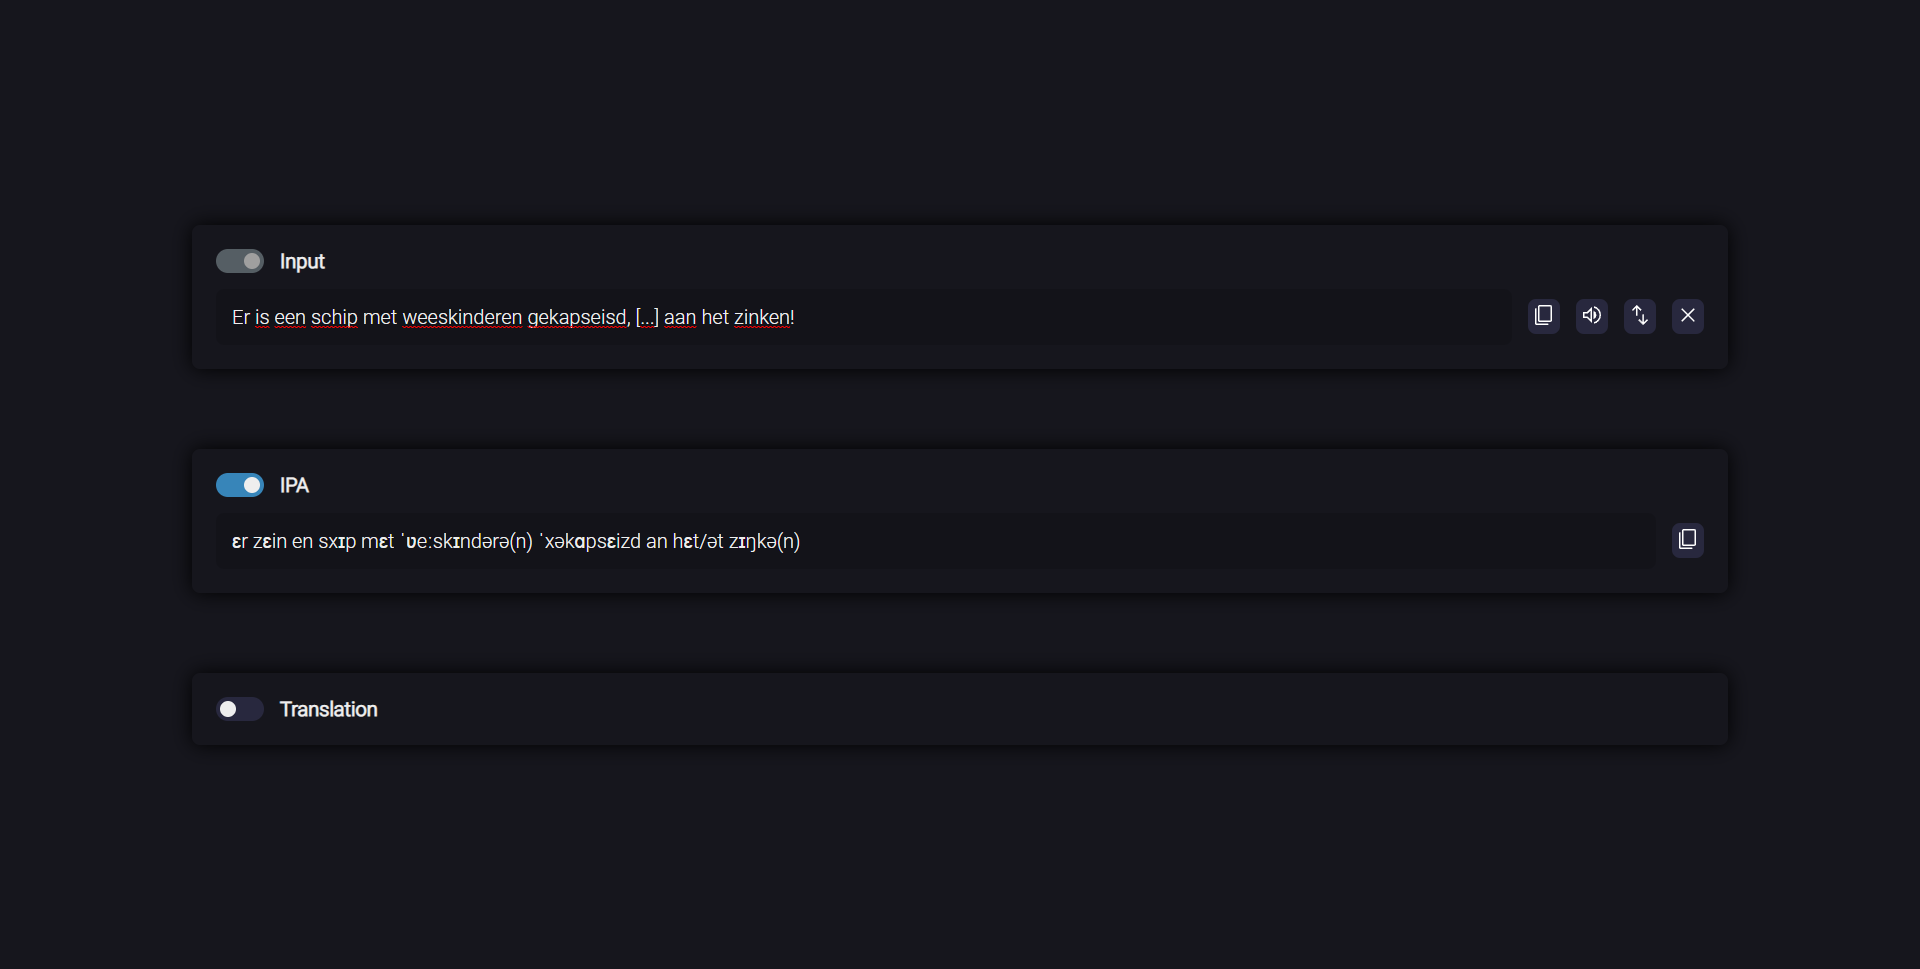
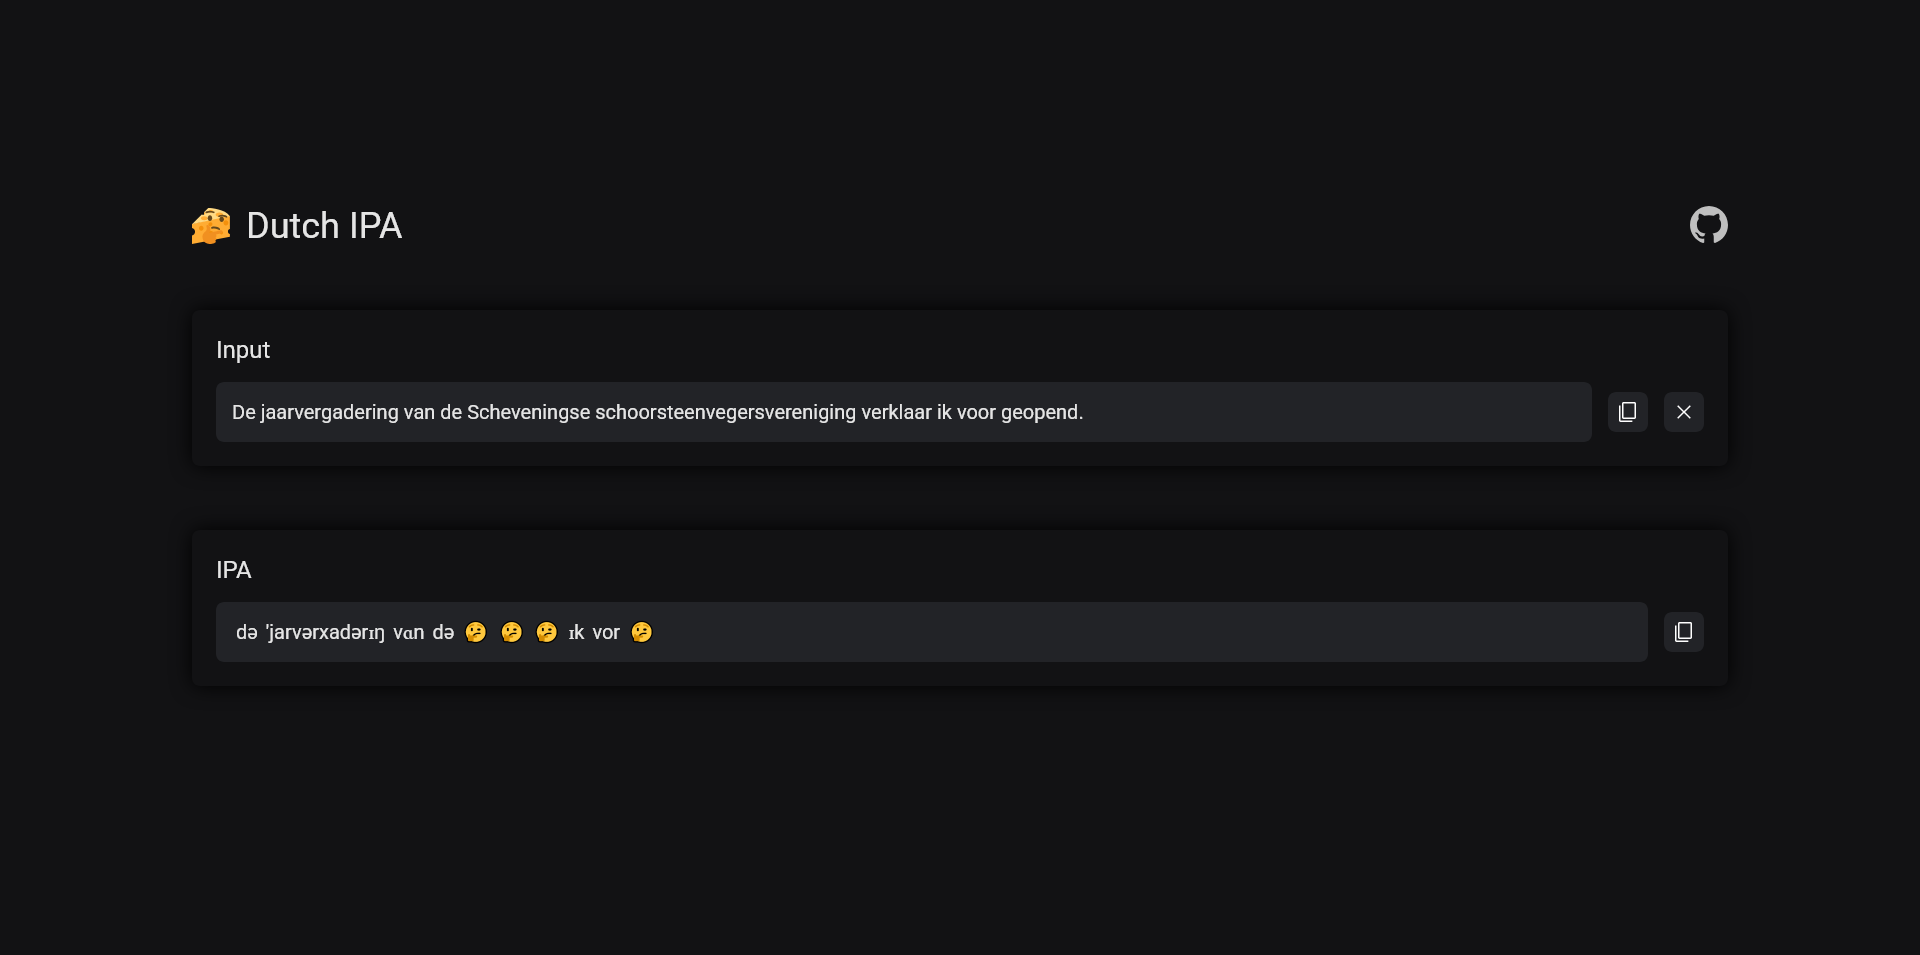
reworked action buttons

diff --git a/islands/Card.tsx b/islands/Card.tsx
@@ -1,7 +1,7 @@
-import type { Signal } from "@preact/signals";
 import { clsx } from "clsx";
 
 import ActionButton from "@components/ActionButton.tsx";
+import { copy, error, ipa, isLoading, text } from "@islands/store.ts";
 
 export default (props: CardProps) => {
 	const { title, placeholder, onCopy } = props;
@@ -19,30 +19,31 @@ export default (props: CardProps) => {
 					<input
 						type="text"
 						placeholder={placeholder}
-						class="block min-h-4 p-4 cursor-text bg-[--card-input-bg] rounded-lg focus-visible:outline-[2px_solid] flex-grow text-xl"
-						onInput={(e) => props.onTextChange(e.currentTarget.value)}
+						class="block min-h-4 p-4 cursor-text bg-[--card-input-bg] rounded-lg focus-visible:outline-[2px_solid] flex-grow flex-shrink text-xl min-w-0"
+						onInput={(e) => text.value = e.currentTarget.value}
 						autofocus
-						value={props.text}
+						value={text}
 					/>
 				)}
 				{isIPA(props) && (
 					<div
 						class={clsx(
 							"block min-h-4 p-4 cursor-text bg-[--card-input-bg] rounded-lg flex-grow text-xl",
-							{ "animate-pulse": props.isLoading.value },
-							{ "text-red-500": props.error.value },
+							{ "animate-pulse": isLoading.value },
+							{ "text-red-500": error.value },
 						)}
 					>
-						{!props.ipa.value && (
+						{!ipa.value && (
 							<>
-								<span class="text-[#9ca3af]">{props.placeholder}</span>
+								<span class="text-[#9ca3af]">{placeholder}</span>
 							</>
 						)}
-						{props.ipa.value?.map((ipa) => (
+						{ipa.value?.map((ipa, i) => (
 							<span
-								key={ipa}
-								title={ipa ?? "🤔"}
-								class="p-1"
+								key={(ipa ?? "🤔") + i}
+								title={ipa ?? "Unknown IPA"}
+								class="p-1 hover:bg-[--word-hover] active:bg-[--word-active] rounded-md cursor-pointer"
+								onClick={() => ipa && copy(ipa)}
 							>
 								{ipa ?? "🤔"}
 							</span>
@@ -51,15 +52,17 @@ export default (props: CardProps) => {
 				)}
 				<nav class="contents">
 					<ActionButton
-						action={onCopy}
+						onClick={onCopy}
 						title="Copy"
 						iconSrc="/icons/content_copy.svg"
+						disabled={isInput(props) ? !text.value : !ipa.value}
 					/>
 					{isInput(props) && (
 						<ActionButton
-							action={props.onClear}
+							onClick={() => text.value = ""}
 							title="Clear"
 							iconSrc="/icons/close.svg"
+							disabled={isInput(props) ? !text.value : !ipa.value}
 						/>
 					)}
 				</nav>
@@ -76,16 +79,10 @@ interface BaseCardProps {
 
 interface InputCardProps extends BaseCardProps {
 	type: "input";
-	text: Signal<string>;
-	onTextChange: (text: string) => void;
-	onClear: () => void;
 }
 
 interface IPACardProps extends BaseCardProps {
 	type: "ipa";
-	isLoading: Signal<boolean>;
-	ipa: Signal<(string | null)[] | null>;
-	error: Signal<Error | null>;
 }
 
 type CardProps =

diff --git a/islands/store.ts b/islands/store.ts
@@ -2,21 +2,23 @@ import { batch, effect, signal } from "@preact/signals";
 import { debounce } from "async";
 
 export const text = signal("");
-export const setText = (newText: string) => {
-	if (newText === text.value) return;
-	text.value = newText;
+export const ipa = signal<(string | null)[] | null>(null);
+export const isLoading = signal(false);
+export const error = signal<Error | null>(null);
+
+export const copy = (text: string) => {
+	navigator.clipboard.writeText(text);
 };
 export const copyText = () => {
-	navigator.clipboard.writeText(text.value);
+	if (!text.value) return;
+	copy(text.value);
 	alert("Text copied to clipboard");
 };
-export const isLoading = signal(false);
-export const ipa = signal<(string | null)[] | null>(null);
 export const copyIPA = () => {
-	navigator.clipboard.writeText((ipa.value ?? []).join(" "));
+	if (!ipa.value) return;
+	copy((ipa.value ?? []).join(" "));
 	alert("IPA copied to clipboard");
 };
-export const error = signal<Error | null>(null);
 
 const sentenceToWords = (sentence: string): string[] =>
 	sentence

diff --git a/components/ActionButton.tsx b/components/ActionButton.tsx
@@ -1,10 +1,12 @@
-export default ({ action, title, iconSrc }: ActionButtonProps) => {
+import type { JSX } from "preact";
+
+export default ({ title, iconSrc, ...props }: ActionButtonProps) => {
 	return (
 		<button
+			{...props}
 			type="button"
-			onClick={action}
+			class="bg-[--button-bg] hover:bg-[--button-hover] active:bg-[--button-active] disabled:bg-[--button-disabled] relative cursor-pointer disabled:cursor-default rounded-lg m-auto p-2 transition-colors flex-shrink-0"
 			title={title}
-			class="bg-[--button-bg] hover:bg-[--button-hover] relative cursor-pointer rounded-lg m-auto p-2 transition-colors"
 		>
 			<img
 				src={iconSrc}
@@ -17,8 +19,6 @@ export default ({ action, title, iconSrc }: ActionButtonProps) => {
 	);
 };
 
-interface ActionButtonProps {
-	action: () => void;
-	title: string;
+interface ActionButtonProps extends JSX.ButtonHTMLAttributes {
 	iconSrc: string;
 }

diff --git a/islands/App.tsx b/islands/App.tsx
@@ -1,5 +1,5 @@
 import Card from "@islands/Card.tsx";
-import { copyIPA, copyText, error, ipa, isLoading, setText, text } from "@islands/store.ts";
+import { copyIPA, copyText } from "@islands/store.ts";
 
 export default () => {
 	return (
@@ -9,18 +9,12 @@ export default () => {
 				title="Input"
 				placeholder="Write a sentence here..."
 				onCopy={copyText}
-				text={text}
-				onTextChange={setText}
-				onClear={() => setText("")}
 			/>
 			<Card
 				type="ipa"
 				title="IPA"
 				placeholder="IPA will appear here..."
 				onCopy={copyIPA}
-				isLoading={isLoading}
-				ipa={ipa}
-				error={error}
 			/>
 		</>
 	);

diff --git a/routes/_app.tsx b/routes/_app.tsx
@@ -73,7 +73,7 @@ gtag('config', '${GA_ID}', {});
 				<meta property="og:image:alt" content={iconDescription} />
 				<script type="application/ld+json" dangerouslySetInnerHTML={{ __html: jsonLD }} />
 			</head>
-			<body class="w-full h-full font-[Roboto] bg-[--color-primary-500] text-neutral-200">
+			<body class="w-full h-full font-[Roboto] bg-[--page-bg] text-neutral-200">
 				<Component />
 			</body>
 		</html>

diff --git a/static/styles.css b/static/styles.css
@@ -7,8 +7,12 @@
 @media (prefers-color-scheme: light) {}
 
 :root {
-	--color-primary-500: #16161d;
-	--button-bg: #8081a41c;
-	--button-hover: #8081a430;
-	--card-input-bg: #00000020;
+	--page-bg: #121214;
+	--button-bg: #222327;
+	--button-hover: #38383D;
+	--button-active: #28282c;
+	--button-disabled: #3636361F;
+	--card-input-bg: #222327;
+	--word-hover: #3F3F46;
+	--word-active: #28282c;
 }

diff --git a/routes/index.tsx b/routes/index.tsx
@@ -3,7 +3,7 @@ import App from "@islands/App.tsx";
 
 export default () => {
 	return (
-		<div class="w-4/5 min-h-[calc(100%-4rem)] py-8 m-auto flex flex-col justify-center gap-16">
+		<div class="w-11/12 sm:w-4/5 min-h-[calc(100%-4rem)] py-8 m-auto flex flex-col justify-center gap-16">
 			<div class="flex flex-row gap-4">
 				<img
 					src="/logo.svg"
